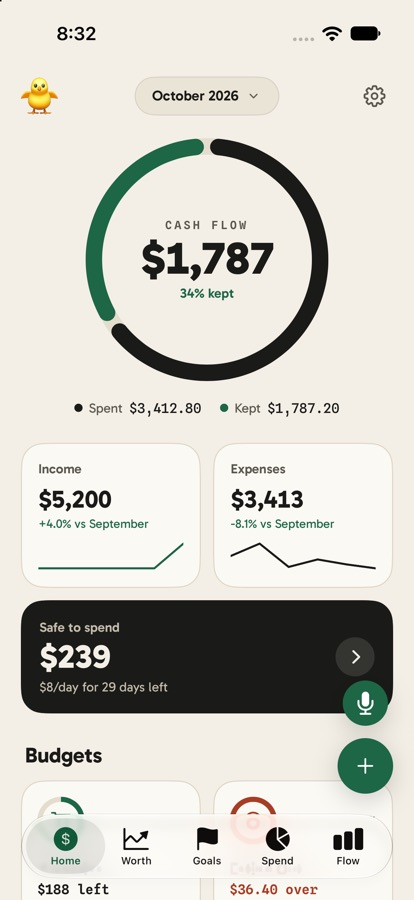
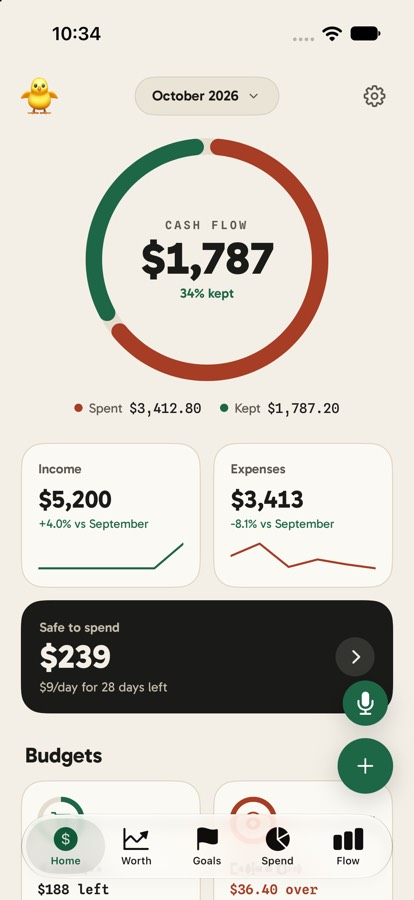
Home: spent in terracotta in light mode (was ink)
Owner's call: the ring's spent arc, the Spent legend dot and the
Expenses sparkline use the light palette's terracotta (#A63D24), as dark
mode already uses coral.

diff --git a/native/Budgie/DesignSystem/Tokens/Colors.swift b/native/Budgie/DesignSystem/Tokens/Colors.swift
@@ -39,8 +39,10 @@ enum BudgieColor {
     static let accent = dynamic(light: 0x1D6646, dark: 0xB3ADFF)
     /// Income, money kept and good changes.
     static let income = dynamic(light: 0x1D6646, dark: 0x5EE6B0)
-    /// Money spent on charts: ink in light mode, coral in dark mode.
-    static let spent = dynamic(light: 0x1A1A17, dark: 0xFF8B7B)
+    /// Money spent on charts (Home's ring, legend and Expenses sparkline):
+    /// terracotta in light mode (owner's call 2026-10-04; was ink), coral
+    /// in dark mode.
+    static let spent = dynamic(light: 0xA63D24, dark: 0xFF8B7B)
     /// Expense, over-limit and errors (`getDanger`).
     static let danger = dynamic(light: 0xA63D24, dark: 0xFF8B7B)
     static let warning = dynamic(light: 0x7E5300, dark: 0xFFC861)

diff --git a/native/docs/redesign/REDESIGN_PLAN.md b/native/docs/redesign/REDESIGN_PLAN.md
@@ -155,7 +155,7 @@ Everything below already exists unless marked **new**.
 | `accent` | `#1D6646` | `#B3ADFF` | links, add button, focus ring, filled pill |
 | `onAccent` | `#FFFFFF` | `#0B0B14` | label on accent |
 | `income` | `#1D6646` | `#5EE6B0` | income, money kept, good change |
-| `spent` | `#1A1A17` | `#FF8B7B` | money spent in charts |
+| `spent` | `#A63D24` | `#FF8B7B` | money spent in charts |
 | `danger` | `#A63D24` | `#FF8B7B` | expense, over limit, errors |
 | `warning` | `#7E5300` | `#FFC861` | |
 | `info` / `purple` / `pink` / `cyan` | `#1F5F99` / `#5B47B8` / `#7F3B6B` / `#176464` | `#7CC8FF` / `#B3ADFF` / `#F7A1D8` / `#4FD1C5` | category hues |

diff --git a/native/docs/UI_SPEC.md b/native/docs/UI_SPEC.md
@@ -20,7 +20,7 @@ mode and "Midnight" colours in dark mode. Tokens live in
 | textSecondary | `#5C584F` | `#9AA3B2` |
 | accent (links, selection, add button) | `#1D6646` | `#B3ADFF` |
 | income (and money kept) | `#1D6646` | `#5EE6B0` |
-| spent (charts) | `#1A1A17` | `#FF8B7B` |
+| spent (charts) | `#A63D24` | `#FF8B7B` |
 | danger | `#A63D24` | `#FF8B7B` |
 | warning | `#7E5300` | `#FFC861` |
 | featureFill (Safe to spend, Goals summary) | `#1A1A17` | `#10231F` |
